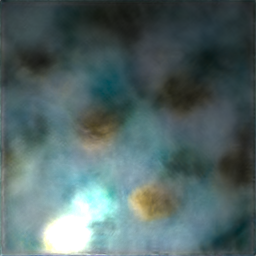
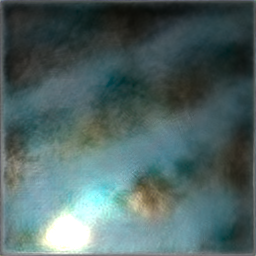
typo fixed

diff --git a/run_optim_svbrdf.py b/run_optim_svbrdf.py
@@ -9,7 +9,6 @@ import torch as th
 
 from src.microfacet import Microfacet
 from src.svbrdf import SvbrdfIO, SvbrdfOptim
-from src.materialgan import MaterialGANOptim
 
 
 def optim_svbrdf(data_dir, res, epochs, tex_init=True):
@@ -38,28 +37,6 @@ def optim_svbrdf(data_dir, res, epochs, tex_init=True):
     svbrdf_obj.save_images_th(rendereds, "optimized", res)
 
 
-def optim_materialgan(data_dir, res, epochs):
-
-    device = th.device("cuda:0" if th.cuda.is_available() else "cpu")
-    # device = th.device("cpu")
-
-    svbrdf_obj = SvbrdfIO(data_dir, device)
-    targets = svbrdf_obj.load_images_th("reference", "1024", res)
-
-    renderer_obj = Microfacet(res, svbrdf_obj.n_of_imgs, svbrdf_obj.im_size, svbrdf_obj.cl, device)
-
-    optim_obj = MaterialGANOptim(device, renderer_obj, ckp="tool/materialgan.pth")
-    optim_obj.load_targets(targets)
-    optim_obj.init_from_latent()
-
-    optim_obj.optim(epochs)
-
-    svbrdf_obj.save_textures_th(optim_obj.textures, "optimized", res)
-    rendereds = renderer_obj.eval(optim_obj.textures)
-    svbrdf_obj.save_images_th(rendereds, "optimized", res)
-
-
 if __name__ == "__main__":
     data_dir = Path("data/card_blue")
-    # optim_svbrdf(data_dir, 256, 1000)
-    optim_materialgan(data_dir, 256, 1000)
+    optim_svbrdf(data_dir, 256, 1000)

diff --git a/src/materialgan.py b/src/materialgan.py
@@ -23,24 +23,21 @@ class MaterialGANOptim(Optim):
         if init_from == "random":
             latent_z = th.randn(1,512).to(self.device)
             latent_w = self.net_obj.net.mapping(latent_z)
-            self.latent = self.net_obj.net.truncation(latent_w)
+            latent = self.net_obj.net.truncation(latent_w)
         else:
             if os.path.exists(init_from):
-                self.latent = th.load(init_from).to(self.device)
+                latent = th.load(init_from).to(self.device)
             else:
                 print("[ERROR:MaterialGANOptim] Can not find latent vector ", init_from)
                 exit()
+        self.latent = self.gradient(latent)
 
     def latent_to_textures(self, latent_type="w+"):
         textures = self.net_obj.net.synthesis(self.latent)
         self.textures = textures.clamp(-1,1)
 
     def optim(self, epochs, lr=0.01):
-        self.latent = th.autograd.Variable(self.latent, requires_grad=True)
         self.optimizer = th.optim.Adam([self.latent], lr=lr, betas=(0.9, 0.999))
-        self.iteration(epochs)
-
-    def iteration(self, epochs):
         pbar = tqdm.trange(epochs)
         for epoch in pbar:
             # compute renderings

diff --git a/run_optim_ganlatent.py b/run_optim_ganlatent.py
@@ -1,0 +1,38 @@
+# -*- coding: utf-8 -*-
+#
+# Copyright (c) 2023, Yu Guo. All rights reserved.
+
+import os
+from pathlib import Path
+import numpy as np
+import torch as th
+
+from src.microfacet import Microfacet
+from src.svbrdf import SvbrdfIO
+from src.materialgan import MaterialGANOptim
+
+
+def optim_materialgan(data_dir, res, epochs):
+
+    device = th.device("cuda:0" if th.cuda.is_available() else "cpu")
+    # device = th.device("cpu")
+
+    svbrdf_obj = SvbrdfIO(data_dir, device)
+    targets = svbrdf_obj.load_images_th("reference", "1024", res)
+
+    renderer_obj = Microfacet(res, svbrdf_obj.n_of_imgs, svbrdf_obj.im_size, svbrdf_obj.cl, device)
+
+    optim_obj = MaterialGANOptim(device, renderer_obj, ckp="tool/materialgan.pth")
+    optim_obj.load_targets(targets)
+    optim_obj.init_from_latent()
+
+    optim_obj.optim(epochs)
+
+    svbrdf_obj.save_textures_th(optim_obj.textures, "optimized", res)
+    rendereds = renderer_obj.eval(optim_obj.textures)
+    svbrdf_obj.save_images_th(rendereds, "optimized", res)
+
+
+if __name__ == "__main__":
+    data_dir = Path("data/card_blue")
+    optim_materialgan(data_dir, 256, 1000)

diff --git a/src/optimization.py b/src/optimization.py
@@ -43,7 +43,7 @@ class Optim:
         self.res = targets.shape[-1]
 
     def srgb(self, images):
-        return images.clamp(self.eps, 1) * (1 / 2.2)
+        return images.clamp(self.eps, 1) ** (1 / 2.2)
 
     def compute_image_loss(self, predicts):
         return self.loss_l2(self.srgb(predicts), self.targets_srgb)
@@ -53,9 +53,6 @@ class Optim:
 
     def compute_vgg19_loss(self, predicts):
         return self.loss_vgg19(self.srgb(predicts))
-
-    def iteration(self, epochs):
-        raise NotImplementedError(f'Should be implemented in derived class!')
 
     def optim(self, epochs, lr):
         raise NotImplementedError(f'Should be implemented in derived class!')

diff --git a/src/svbrdf.py b/src/svbrdf.py
@@ -38,9 +38,6 @@ class SvbrdfOptim(Optim):
 
     def optim(self, epochs, lr=0.01):
         self.optimizer = th.optim.Adam([self.textures], lr=lr, betas=(0.9, 0.999))
-        self.iteration(epochs)
-
-    def iteration(self, epochs):
         pbar = tqdm.trange(epochs)
         for epoch in pbar:
             # compute renderings

diff --git a/README.md b/README.md
@@ -31,8 +31,14 @@ Tips:
 ### Render
 Run `python run_render.py`
 
-### Optimization
-Run `python run_optim.py`
+### Generate textures with MaterialGAN
+Run `pyton run_gentextures.py`
+
+### Optimization on SVBRDF maps directly
+Run `python run_optim_svbrdf.py`
+
+### Optimization on MaterialGAN latent space (TODO, still working on it)
+Run `python run_optim_ganlatent.py`
 
 ## Notes
 - TODO: add GAN part
